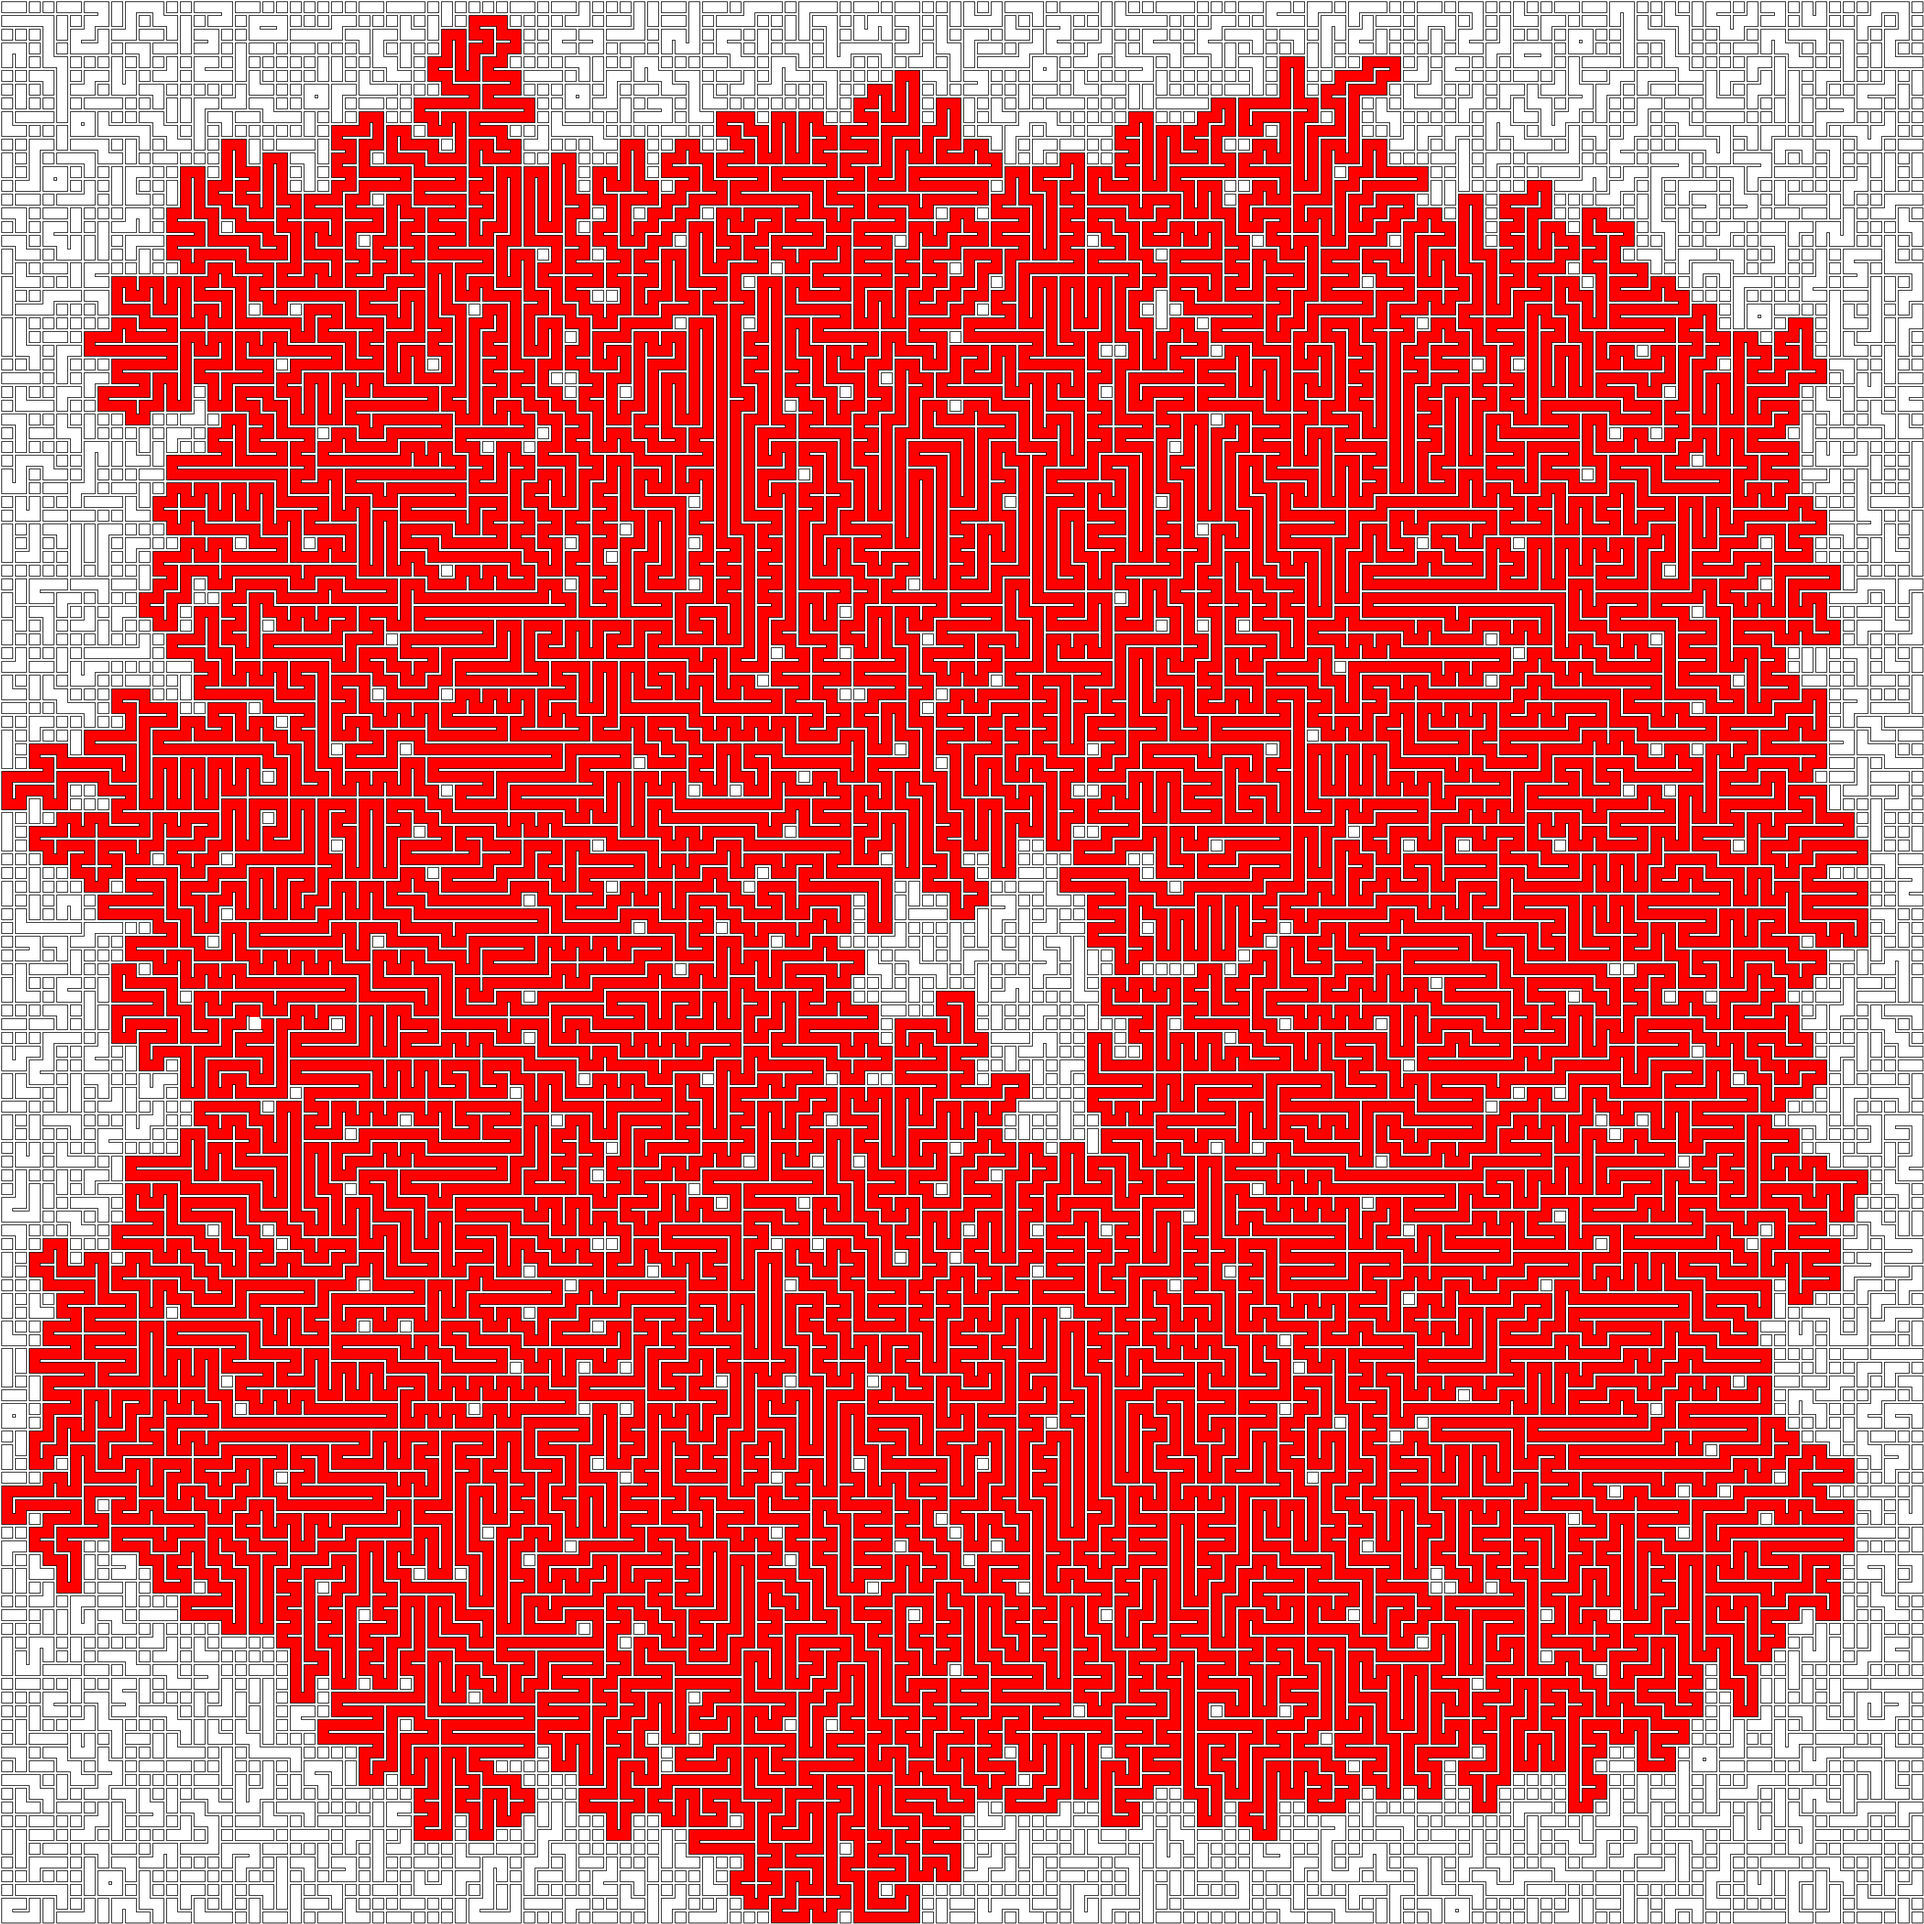
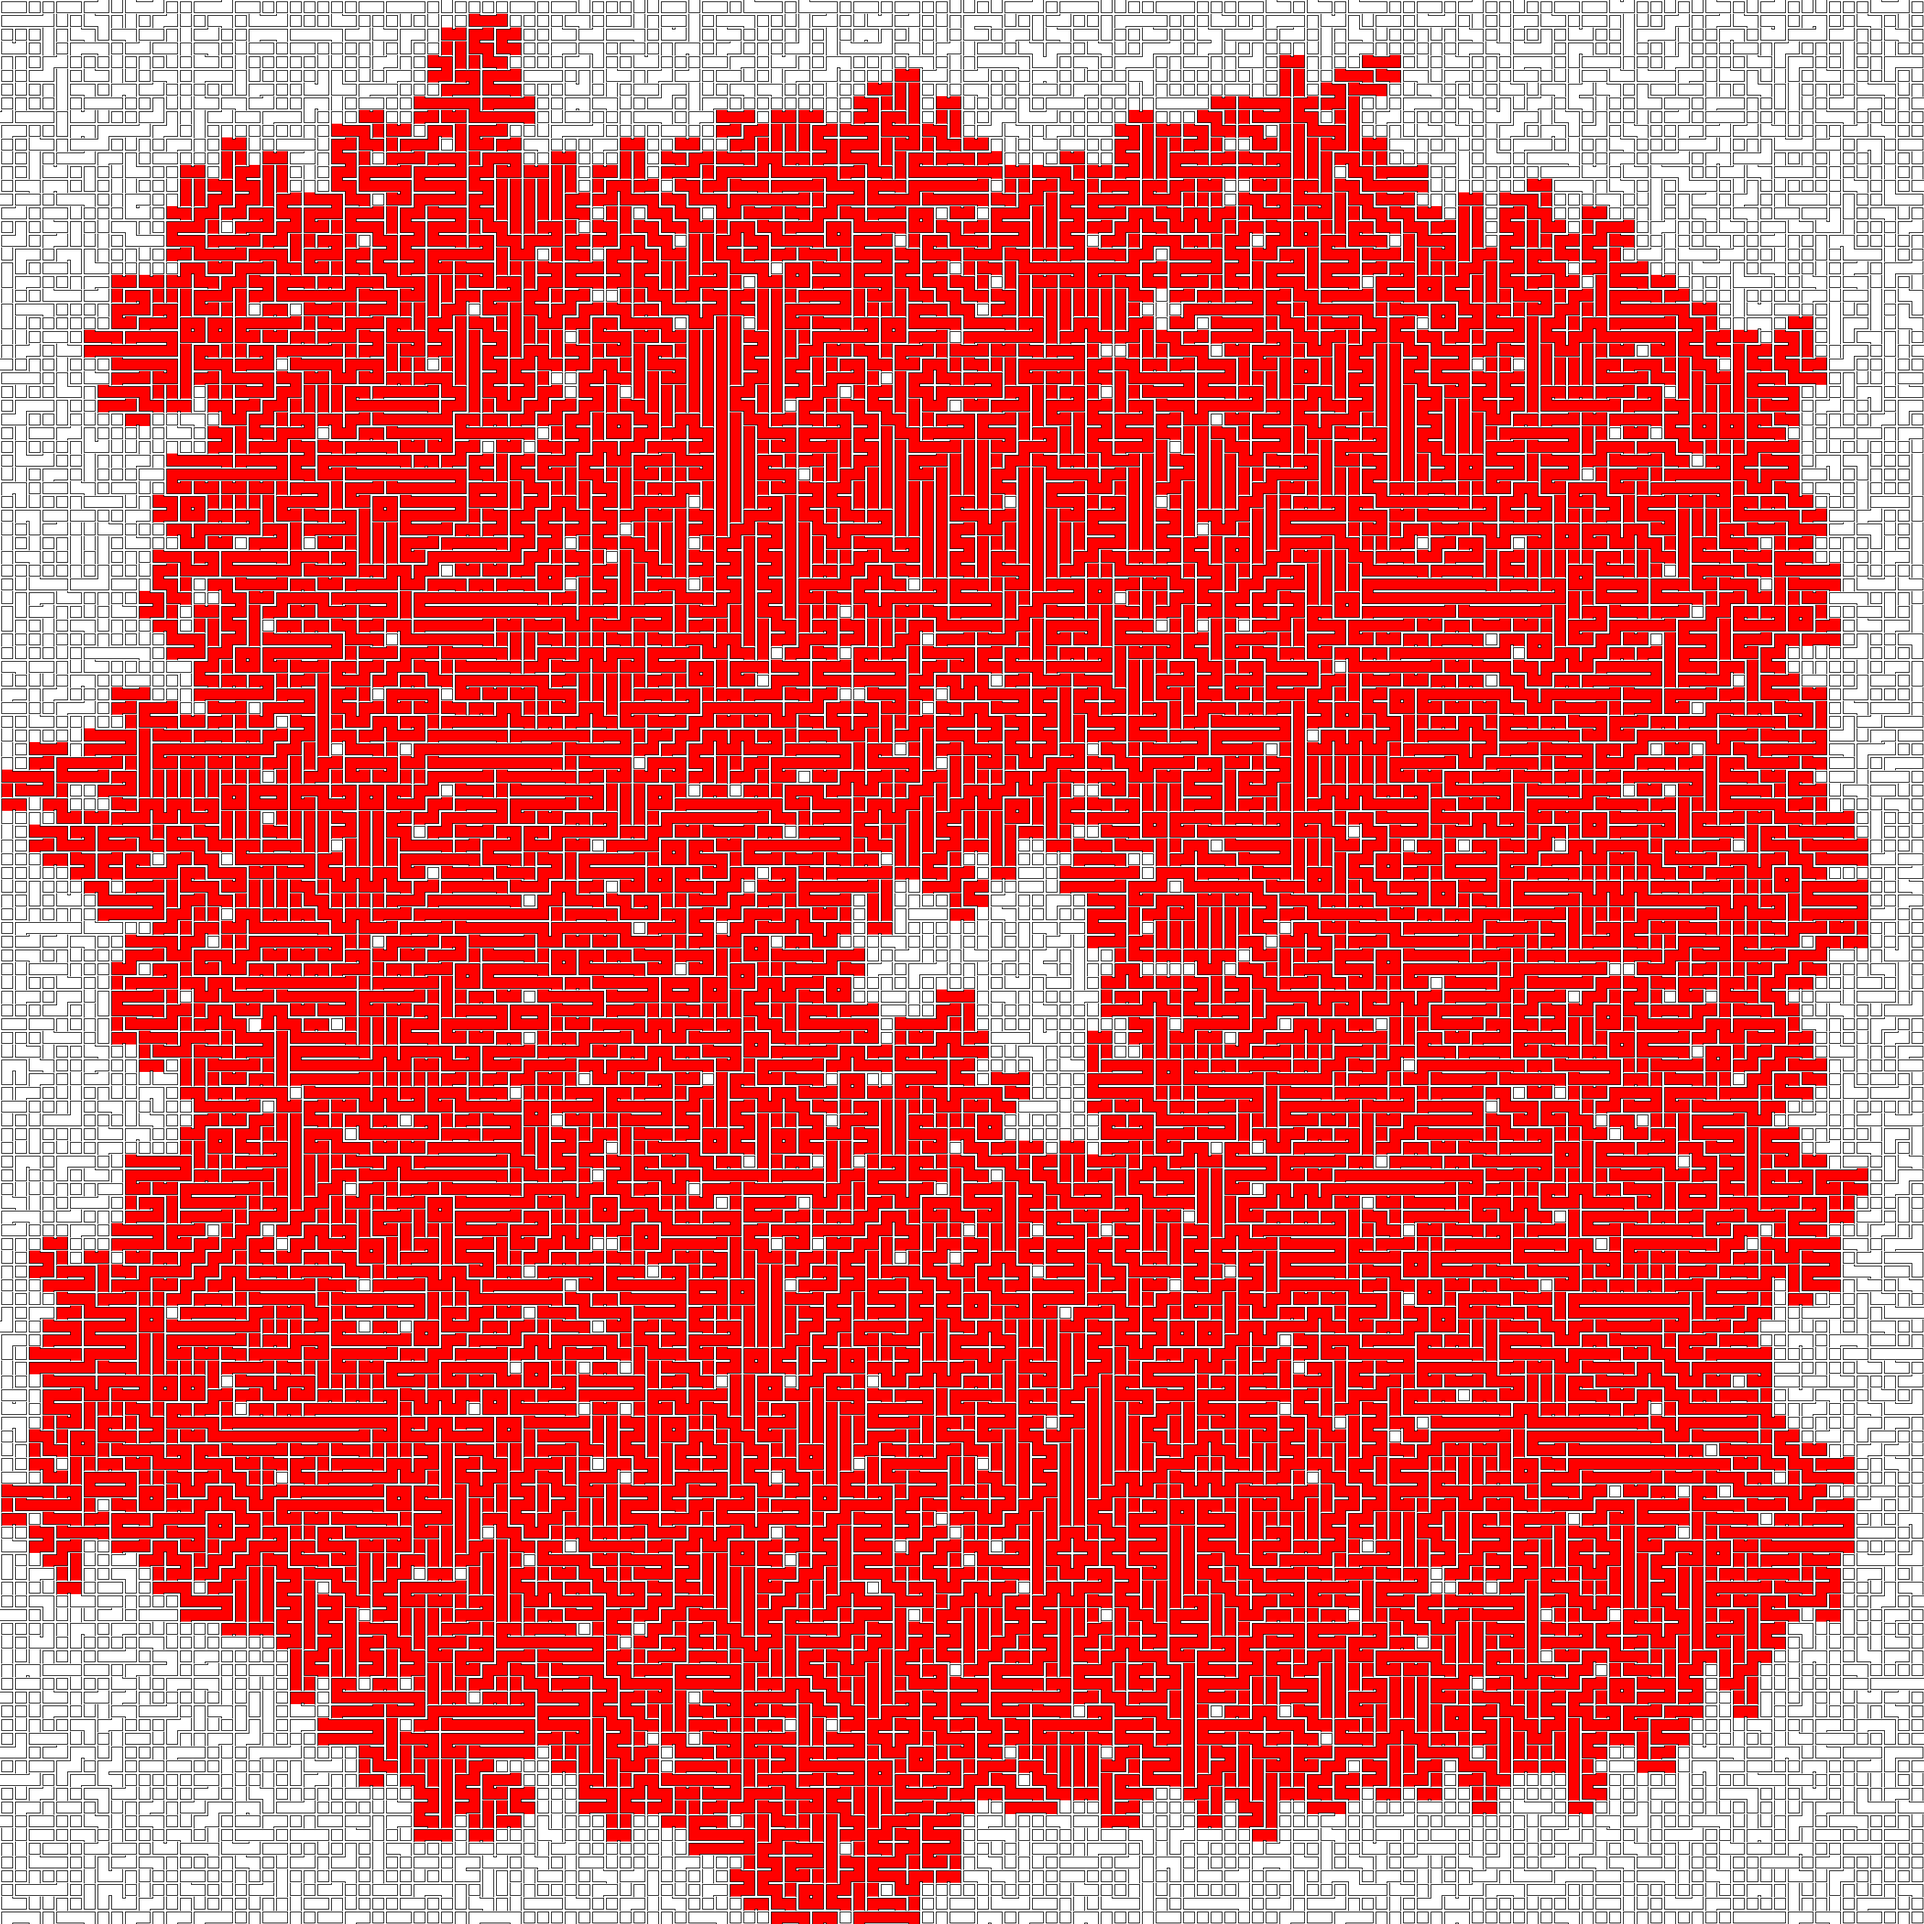
Day 10 solution

Changed region(s): [[0.0, 0.0311, 0.9632, 0.9943]]

diff --git a/src/Day10.kt b/src/Day10.kt
@@ -4,53 +4,45 @@ import javax.imageio.ImageIO
 
 fun main() {
 
-    class LetterCell(position: CartesianCoordinate, val letter: Char): Cell(position) {
-        fun connectsNorth() = letter in listOf('|', 'L', 'J', 'S')
-        fun connectsSouth() = letter in listOf('|', '7', 'F')
-        fun connectsWest() = letter in listOf('-', '7', 'J')
-        fun connectsEast() = letter in listOf('-', 'L', 'F', 'S')
-    }
-
-    fun prepareGrid(input: List<String>): CellRectangularGrid {
-        val grid = CellRectangularGrid(140, 140)
+    fun prepareGrid(input: List<String>): Grid {
+        val grid = Grid(140, 140, input)
         input.forEachIndexed { y, line ->
             line.forEachIndexed { x, c ->
-                val coordinate = CartesianCoordinate(x, y)
-                val current = LetterCell(coordinate, c)
+                val cell = grid.cellAt(x, y)
 
-                val north = LetterCell(CartesianCoordinate(x, y - 1), input.getOrNull(y - 1)?.get(x) ?: '.')
-                if (current.connectsNorth() && north.connectsSouth()) {
-                    grid.link(coordinate, north.position)
+                val north = grid.cellAt(x, y - 1)
+                if (cell.connectsNorth() && north.connectsSouth()) {
+                    grid.link(cell, north)
                 }
 
-                val south = LetterCell(CartesianCoordinate(x, y + 1), input.getOrNull(y + 1)?.get(x) ?: '.')
-                if (current.connectsSouth() && south.connectsNorth()) {
-                    grid.link(coordinate, south.position)
+                val south = grid.cellAt(x, y + 1)
+                if (cell.connectsSouth() && south.connectsNorth()) {
+                    grid.link(cell, south)
                 }
 
-                val west = LetterCell(CartesianCoordinate(x - 1, y), line.getOrNull(x - 1) ?: '.')
-                if (current.connectsWest() && west.connectsEast()) {
-                    grid.link(coordinate, west.position)
+                val west = grid.cellAt(x - 1, y)
+                if (cell.connectsWest() && west.connectsEast()) {
+                    grid.link(cell, west)
                 }
 
-                val east = LetterCell(CartesianCoordinate(x + 1, y), line.getOrNull(x + 1) ?: '.')
-                if (current.connectsEast() && east.connectsWest()) {
-                    grid.link(coordinate, east.position)
+                val east = grid.cellAt(x + 1, y)
+                if (cell.connectsEast() && east.connectsWest()) {
+                    grid.link(cell, east)
                 }
             }
         }
         return grid
     }
 
-    fun findStart(input: List<String>): CartesianCoordinate {
+    fun findStart(input: List<String>, grid: Grid): Cell {
         val y = input.indexOfFirst { it.contains('S') }
         val x = input[y].indexOfFirst { it == 'S' }
-        return CartesianCoordinate(x, y)
+        return grid.cellAt(x, y)
     }
 
     fun part1(input: List<String>): Int {
         val grid = prepareGrid(input)
-        val start = findStart(input)
+        val start = findStart(input, grid)
         val distances = DijkstraDistances(grid, start)
 
         return distances.maxDistance()
@@ -58,7 +50,7 @@ fun main() {
 
     fun part2(input: List<String>): Int {
         val grid = prepareGrid(input)
-        val start = findStart(input)
+        val start = findStart(input, grid)
         val distances = DijkstraDistances(grid, start)
 
         val image = RectangularGridRenderer(20, distances, 2).toPng(grid)

diff --git a/src/day10/RectangularGridRendering.kt b/src/day10/RectangularGridRendering.kt
@@ -5,7 +5,7 @@ import java.awt.Graphics2D
 import java.awt.image.BufferedImage
 
 class RectangularGridRendering(
-    private val grid: CellRectangularGrid,
+    private val grid: Grid,
     private val distances: DijkstraDistances,
     private val cellSize: Int, private val inset: Int
 ) {
@@ -31,10 +31,10 @@ class RectangularGridRendering(
     }
 
     fun drawCells() {
-        grid.getPositions().forEach { drawCell(it) }
+        grid.cells.forEach { drawCell(it) }
     }
 
-    fun drawCell(position: CartesianCoordinate) {
+    fun drawCell(position: Cell) {
         val x = position.x * cellSize
         val y = position.y * cellSize
 
@@ -44,7 +44,7 @@ class RectangularGridRendering(
             graphics.fillRect(x + inset, y + inset, cellSize - 2 * inset, cellSize - 2 * inset)
         }
 
-        if (grid.linked(position, position.north())) {
+        if (position.isLinkedTo(grid.cellAt(position.x, position.y - 1))) {
             withTempColor(distanceColor) {
                 graphics.fillRect(x + inset, y + cellSize - inset, cellSize - 2 * inset, inset)
             }
@@ -55,7 +55,7 @@ class RectangularGridRendering(
             graphics.drawLine(x + inset, y + cellSize - inset, x + cellSize - inset, y + cellSize - inset)
         }
 
-        if (grid.linked(position, position.south())) {
+        if (position.isLinkedTo(grid.cellAt(position.x, position.y + 1))) {
             withTempColor(distanceColor) {
                 graphics.fillRect(x + inset, y, cellSize - 2 * inset, inset)
             }
@@ -66,7 +66,7 @@ class RectangularGridRendering(
             graphics.drawLine(x + inset, y + inset, x + cellSize - inset, y + inset)
         }
 
-        if (grid.linked(position, position.west())) {
+        if (position.isLinkedTo(grid.cellAt(position.x - 1, position.y))) {
             withTempColor(distanceColor) {
                 graphics.fillRect(x, y + inset, inset, cellSize - 2 * inset)
             }
@@ -77,7 +77,7 @@ class RectangularGridRendering(
             graphics.drawLine(x + inset, y + inset, x + inset, y + cellSize - inset)
         }
 
-        if (grid.linked(position, position.east())) {
+        if (position.isLinkedTo(grid.cellAt(position.x + 1, position.y))) {
             withTempColor(distanceColor) {
                 graphics.fillRect(x + cellSize - inset, y + inset, inset, cellSize - 2 * inset)
             }

diff --git a/src/day10/DijkstraDistances.kt b/src/day10/DijkstraDistances.kt
@@ -1,0 +1,37 @@
+package day10
+
+import java.util.PriorityQueue
+import kotlin.math.max
+
+class DijkstraDistances(private val grid: Grid, initialPosition: Cell): HashMap<Cell, Int>() {
+
+    private var maxDistance = 0
+
+    private data class Pair(val position: Cell, val distance: Int)
+
+    init {
+        val pq = PriorityQueue<Pair> { x, y -> x.distance - y.distance }
+        this[initialPosition] = 0
+        pq.add(Pair(initialPosition, 0))
+        compute(pq)
+    }
+
+    private fun compute(pq: PriorityQueue<Pair>) {
+        while (pq.isNotEmpty()) {
+            val (position, distance) = pq.remove()
+            maxDistance = max(maxDistance, distance)
+            for (link in listOf(
+                grid.cellAt(position.x, position.y - 1),
+                grid.cellAt(position.x, position.y + 1),
+                grid.cellAt(position.x - 1, position.y),
+                grid.cellAt(position.x + 1, position.y),
+            ).filter { position.isLinkedTo(it) }.filter { !this.containsKey(it) }) {
+                this[link] = distance + 1
+                pq.add(Pair(link, distance + 1))
+            }
+        }
+    }
+
+    fun maxDistance() = maxDistance
+
+}

diff --git a/src/day10/Cell.kt b/src/day10/Cell.kt
@@ -1,11 +1,16 @@
 package day10
 
-open class Cell(val position: CartesianCoordinate) {
+open class Cell(val x: Int, val y: Int, private val letter: Char) {
+
+    fun connectsNorth() = letter in listOf('|', 'L', 'J', 'S')
+    fun connectsSouth() = letter in listOf('|', '7', 'F')
+    fun connectsWest() = letter in listOf('-', '7', 'J')
+    fun connectsEast() = letter in listOf('-', 'L', 'F', 'S')
 
     private val links = mutableListOf<Cell>()
 
     fun link(cell: Cell) = links.add(cell)
 
-    fun isLinkedTo(position: CartesianCoordinate): Boolean = links.any { it.position == position }
+    fun isLinkedTo(cell: Cell): Boolean = links.any { it.x == cell.x && it.y == cell.y }
 
 }

diff --git a/src/day10/Grid.kt b/src/day10/Grid.kt
@@ -1,0 +1,16 @@
+package day10
+
+open class Grid(val width: Int, val height: Int, input: List<String>) {
+
+    val cells = List(width * height) { Cell(it % width, it / width, input[it / width][it % width]) }
+
+    fun cellAt(x: Int, y: Int): Cell {
+        return cells.getOrNull(y * width + x) ?: Cell(-1, -1, '.')
+    }
+
+    fun link(cell1: Cell, cell2: Cell) {
+        cell1.link(cell2)
+        cell2.link(cell1)
+    }
+
+}

diff --git a/src/day10/RectangularGridRenderer.kt b/src/day10/RectangularGridRenderer.kt
@@ -5,7 +5,7 @@ import java.awt.image.BufferedImage
 
 class RectangularGridRenderer(private val cellSize: Int, val distances: DijkstraDistances, private val inset: Int) {
 
-    fun toPng(grid: CellRectangularGrid): BufferedImage {
+    fun toPng(grid: Grid): BufferedImage {
         val rendering = RectangularGridRendering(grid, distances, cellSize, inset)
 
         rendering.setColor(Color.WHITE)
